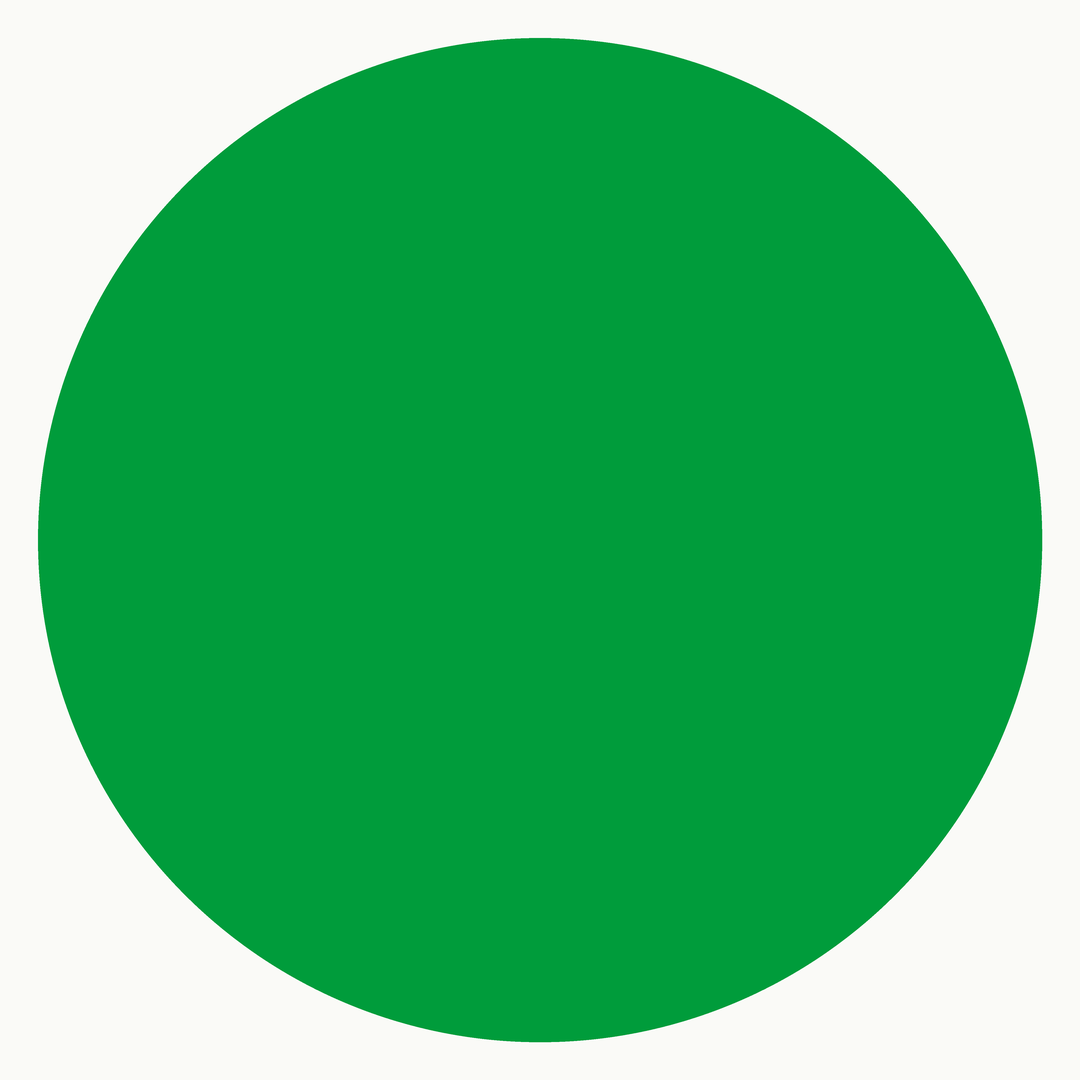
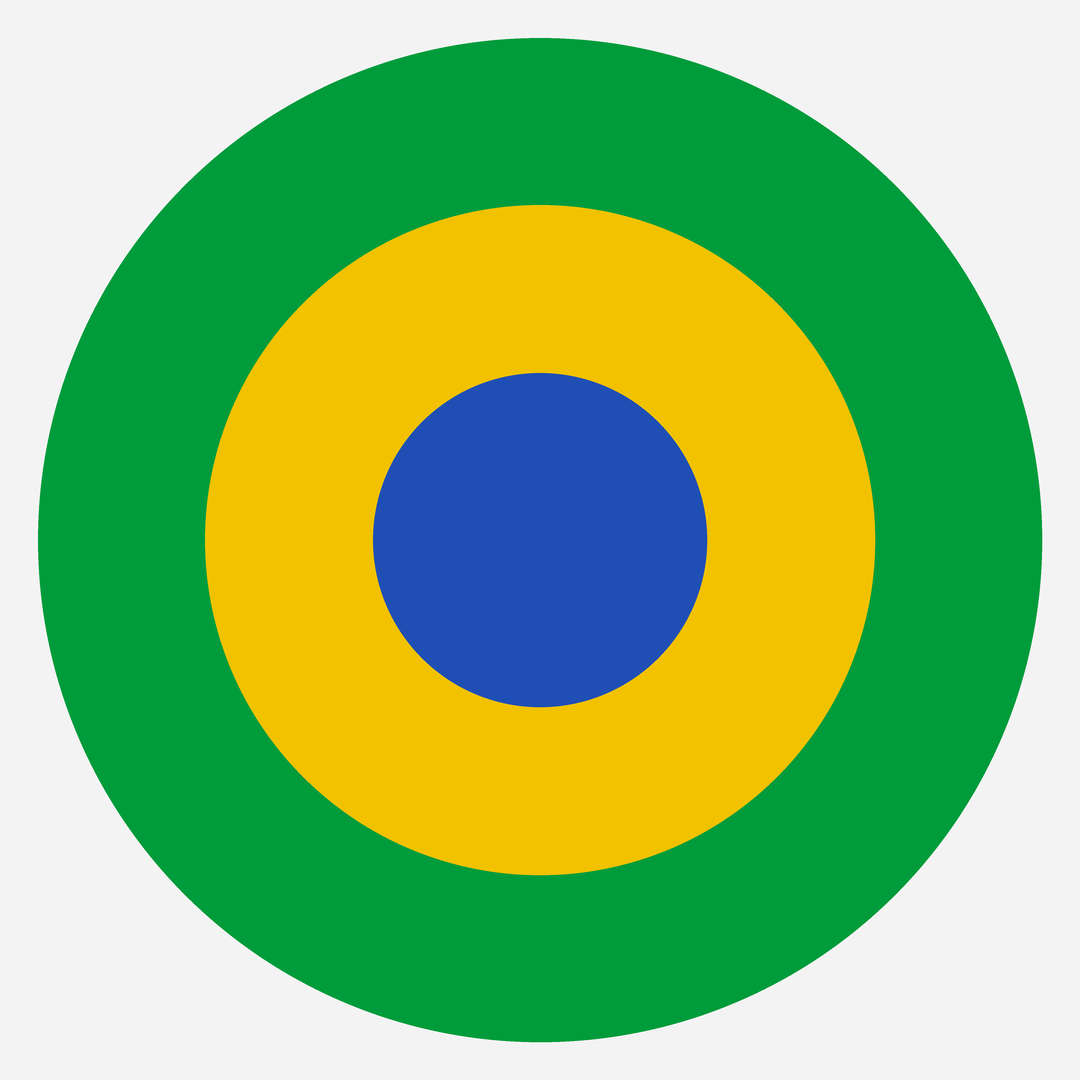
Prévia: stories automáticos quando há transmissão ao vivo; foto de perfil com três círculos
Claude-Session: https://claude.ai/code/session_01LhzKyHvExJb3TPhqkvRYrY

diff --git a/scripts/posts/stories.js b/scripts/posts/stories.js
@@ -1,0 +1,142 @@
+/* Stories "ao vivo": quando a Câmara, o Senado, o STF ou a Presidência começa uma transmissão oficial, publica um story
+   no Instagram com a arte de story-live.js. Roda em .github/workflows/stories.yml, a cada 10 minutos durante o dia.
+     node scripts/posts/stories.js preparar   -> acha o que está ao vivo agora e ainda não teve story e lista em
+                                                posts/stories/pendentes.json
+     node scripts/posts/stories.js arte       -> gera a arte de cada pendente em posts/stories/<chave>.jpg (Playwright)
+     node scripts/posts/stories.js publicar   -> (depois do commit, quando o site já serve a imagem) publica cada pendente
+                                                como story e anota em posts/stories/estado.json, para nunca repetir
+   Câmara e Senado: APIs de dados abertos (sessão do Plenário em andamento). STF e Presidência: a AGENDA do index.html,
+   com a mesma regra da seção "Ao vivo agora" do site (dia de hoje, sessão com horário, dentro da janela da transmissão).
+   O Instagram não aceita link clicável (figurinha de link) em story publicado pela API: a arte manda para o site.
+   Chaves só nos segredos do GitHub (IG_USER_ID, IG_TOKEN). */
+const fs = require('fs'), path = require('path'), crypto = require('crypto');
+const ROOT = path.resolve(__dirname, '..', '..');
+const DIR = path.join(ROOT, 'posts', 'stories');
+const EST = path.join(DIR, 'estado.json'), PEND = path.join(DIR, 'pendentes.json');
+const SITE = 'https://coisapublica.io/', GRAPH = 'https://graph.facebook.com/v21.0/';
+const UA = {'User-Agent': 'coisa-publica (coisapublica.io)', 'Accept': 'application/json'};
+const ler = (f, d) => { try { return JSON.parse(fs.readFileSync(f, 'utf8')); } catch (e) { return d; } };
+const sleep = ms => new Promise(r => setTimeout(r, ms));
+
+// hora de Brasília
+const agoraBR = () => { const p = Object.fromEntries(new Intl.DateTimeFormat('en-CA', {timeZone:'America/Sao_Paulo', year:'numeric', month:'2-digit', day:'2-digit', hour:'2-digit', minute:'2-digit', hourCycle:'h23'}).formatToParts(new Date()).map(x=> [x.type, x.value]));
+  return {data:`${p.year}-${p.month}-${p.day}`, min:(+p.hour)*60 + (+p.minute)}; };
+const hm = t => { const m = /(\d{1,2})h(\d{2})?/.exec(t||''); return m ? (+m[1])*60 + (+(m[2]||0)) : null; };
+const hTxt = m => `${Math.floor(m/60)}h${m%60 ? String(m%60).padStart(2,'0') : ''}`;
+const minIso = s => { const m = /T(\d{2}):(\d{2})/.exec(s||''); return m ? (+m[1])*60 + (+m[2]) : null; };
+const limpa = s => String(s||'').replace(/\s+/g, ' ').trim();
+const tipoBonito = s => limpa(s).toLowerCase().replace(/^./, c=> c.toUpperCase()) || 'Sessão';
+
+async function get(url){ const r = await fetch(url, {headers: UA}); if (!r.ok) throw new Error(`${url}: HTTP ${r.status}`); return r.json(); }
+
+// ---------- Câmara: evento do Plenário (órgão 180) em andamento ----------
+async function camara(hoje){
+  const js = await get(`https://dadosabertos.camara.leg.br/api/v2/eventos?idOrgao=180&dataInicio=${hoje}&dataFim=${hoje}&ordem=ASC&ordenarPor=dataHoraInicio&itens=50`);
+  return (js.dados||[]).filter(e=> /andamento/i.test(e.situacao||'')).map(e=> ({
+    chave:`camara-${e.id}`, casa:'camara', desde: minIso(e.dataHoraInicio)!=null ? hTxt(minIso(e.dataHoraInicio)) : '',
+    tipo: tipoBonito(e.descricaoTipo), descricao: limpa((e.descricao||'').split(/\r?\n/)[0]).slice(0, 180)}));
+}
+// ---------- Senado: sessão do Plenário de hoje aberta ou em andamento ----------
+function achar(o, k){ if (Array.isArray(o)) { for (const v of o){ const r = achar(v, k); if (r.length) return r; } return []; }
+  if (o && typeof o === 'object'){ for (const [kk, v] of Object.entries(o)){ if (kk.toLowerCase()===k.toLowerCase()) return Array.isArray(v) ? v : [v]; const r = achar(v, k); if (r.length) return r; } } return []; }
+async function senado(hoje){
+  const js = await get(`https://legis.senado.leg.br/dadosabertos/plenario/agenda/dia/${hoje.replace(/-/g,'')}.json`);
+  return achar(js, 'Sessao').filter(s=> s && typeof s === 'object').map(s=>{
+    let sit = s.SituacaoSessao || s.Situacao || ''; if (typeof sit === 'object') sit = sit.Descricao || sit.DescricaoSituacao || '';
+    let tipo = s.TipoSessao || s.DescricaoTipoSessao || ''; if (typeof tipo === 'object') tipo = tipo.Descricao || '';
+    const hora = s.HoraInicioSessao || s.HoraInicio || s.Hora || '';
+    return {sit: String(sit), x: {chave:`senado-${s.CodigoSessao || hoje}`, casa:'senado', desde: hora ? hTxt(hm(hora.slice(0,5).replace(':','h'))) : '',
+      tipo: tipoBonito(tipo), descricao: limpa(s.NomeSessao || s.DescricaoSessao || '').slice(0, 180)}};
+  }).filter(o=> /andamento|aberta|iniciada/i.test(o.sit)).map(o=> o.x);
+}
+// ---------- STF e Presidência: AGENDA escrita à mão no index.html ----------
+const VAZIO = Object.assign(()=> '', {toString:()=> '', valueOf:()=> ''});
+function objeto(src, nome){                       // lê `const NOME = {...}` do index.html, respeitando textos e comentários
+  const i = src.indexOf(`const ${nome} = {`); if (i < 0) return null;
+  let j = src.indexOf('{', i), d = 0, q = null;
+  for (let k = j; k < src.length; k++){
+    const c = src[k];
+    if (q){ if (c === '\\') { k++; continue; } if (c === q) q = null; continue; }
+    if (c === "'" || c === '"' || c === '`'){ q = c; continue; }
+    if (c === '/' && src[k+1] === '/'){ k = src.indexOf('\n', k); continue; }
+    if (c === '/' && src[k+1] === '*'){ k = src.indexOf('*/', k) + 1; continue; }
+    if (c === '{') d++; else if (c === '}' && --d === 0){
+      // constantes do site citadas dentro do objeto (como CAM, o começo dos links da Câmara) viram texto vazio
+      const escopo = new Proxy({}, {has:()=> true, get:(t, n)=> n === Symbol.unscopables ? undefined : (n in globalThis ? globalThis[n] : VAZIO)});
+      return new Function('escopo', `with (escopo) { return (${src.slice(j, k+1)}); }`)(escopo);
+    }
+  }
+  return null;
+}
+const JANELA = {stf:{start:'14h', hours:5}, exec:{start:'', hours:3}};   // as mesmas do LIVE do site
+function agenda(hoje, agora){
+  const src = fs.readFileSync(path.join(ROOT, 'index.html'), 'utf8');
+  const A = objeto(src, 'AGENDA') || {};
+  let P = {}; try { P = objeto(src, 'PROJECTS') || {}; } catch (e) { console.error('PROJECTS:', e.message); }
+  const out = [];
+  for (const k of ['stf', 'exec']){
+    const day = (A[k]?.days||[]).find(d=> d.date===hoje && !d.label && (d.live || (k!=='exec' && /sess|live/i.test(d.kind||''))));
+    if (!day) continue;
+    const st = hm(day.time || JANELA[k].start); if (st == null) continue;
+    const en = day.end ? hm(day.end) : st + JANELA[k].hours*60;
+    if (agora < st || agora >= en) continue;
+    const it = (day.items||[])[0] || {}, pr = it.ref && P[it.ref];
+    const desc = pr ? `${pr.title}${pr.code ? ` (${pr.code})` : ''}` : (it.id || '');
+    out.push({chave:`${k}-${hoje}-${st}`, casa:k, desde:hTxt(st), tipo:tipoBonito(day.kind), descricao: limpa(desc).slice(0, 180)});
+  }
+  return out;
+}
+
+async function preparar(){
+  const {data:hoje, min:agora} = agoraBR();
+  const est = ler(EST, {}), achados = [];
+  for (const [nome, fn] of [['camara', ()=> camara(hoje)], ['senado', ()=> senado(hoje)], ['agenda', async ()=> agenda(hoje, agora)]]){
+    try { achados.push(...await fn()); } catch (e) { console.error(`${nome}: ${e.message}`); }
+  }
+  const novos = achados.filter(x=> !est[x.chave]);
+  console.log('ao vivo agora:', achados.map(x=> x.chave).join(', ') || 'nada', '| novos:', novos.length);
+  if (novos.length){ fs.mkdirSync(DIR, {recursive:true}); fs.writeFileSync(PEND, JSON.stringify(novos, null, 1)); }
+  else fs.rmSync(PEND, {force:true});              // o que ficou pendente e já saiu do ar não vira story
+}
+
+async function arte(){
+  const pend = ler(PEND, []); if (!pend.length) return;
+  const {chromium} = require('playwright'), {html} = require('./story-live.js');
+  const b = await chromium.launch(), p = await b.newPage({viewport:{width:1080, height:1920}});
+  for (const x of pend){ await p.setContent(html(x)); await p.screenshot({path: path.join(DIR, `${x.chave}.jpg`), type:'jpeg', quality:90}); }
+  await b.close();
+}
+
+async function publicar(){
+  const pend = ler(PEND, []); if (!pend.length) return;
+  const ID = (process.env.IG_USER_ID||'').trim(), TOKEN = (process.env.IG_TOKEN||'').trim();
+  if (!ID || !TOKEN){ console.log('Instagram sem chave: nada publicado'); return; }
+  const est = ler(EST, {}), resta = [];
+  for (const x of pend){
+    try {
+      const f = path.join(DIR, `${x.chave}.jpg`), h = crypto.createHash('sha1').update(fs.readFileSync(f)).digest('hex');
+      const url = `${SITE}posts/stories/${x.chave}.jpg?v=${h.slice(0,10)}`;
+      let ok = false;                                  // espera o site servir esta imagem (até ~10 min)
+      for (let i = 0; i < 40 && !ok; i++){
+        try { const r = await fetch(url, {headers: UA}); ok = r.ok && crypto.createHash('sha1').update(Buffer.from(await r.arrayBuffer())).digest('hex') === h; } catch (e) {}
+        if (!ok) await sleep(15000);
+      }
+      if (!ok) throw new Error('o site ainda não serve a imagem');
+      const post = async (u, q) => { const r = await fetch(GRAPH + u, {method:'POST', body:new URLSearchParams({...q, access_token:TOKEN})}); const j = await r.json(); if (!r.ok || j.error) throw new Error(JSON.stringify(j.error||j).slice(0, 300)); return j; };
+      const c = (await post(`${ID}/media`, {image_url:url, media_type:'STORIES'})).id;
+      for (let i = 0; i < 30; i++){
+        const r = await (await fetch(`${GRAPH}${c}?fields=status_code&access_token=${encodeURIComponent(TOKEN)}`)).json();
+        if (r.status_code === 'FINISHED') break; if (r.status_code === 'ERROR') throw new Error('Instagram recusou a imagem');
+        await sleep(5000);
+      }
+      const m = (await post(`${ID}/media_publish`, {creation_id:c})).id;
+      est[x.chave] = {ref:m, quando:new Date().toISOString().slice(0,16) + 'Z'};
+      console.log(`${x.chave}: story publicado (${m})`);
+    } catch (e) { console.error(`${x.chave}: erro: ${e.message}`); resta.push(x); }
+  }
+  fs.writeFileSync(EST, JSON.stringify(est, null, 1));
+  if (resta.length) fs.writeFileSync(PEND, JSON.stringify(resta, null, 1)); else fs.rmSync(PEND, {force:true});
+}
+
+const modo = process.argv[2];
+({publicar, arte, preparar}[modo] || preparar)().catch(e=> { console.error(e); process.exit(1); });

diff --git a/scripts/posts/story-live.js b/scripts/posts/story-live.js
@@ -1,0 +1,53 @@
+/* Arte do story "ao vivo" (1080x1920), no visual do cartão "Ao vivo agora" do site.
+   Uso: node scripts/posts/story-live.js <saida.jpg> '<json>'
+   json: {casa:'camara'|'senado'|'stf'|'exec', desde:'14h', tipo:'Sessão deliberativa', descricao:'...', canal:'TV Câmara'}
+   O Instagram não deixa pôr link clicável em story pela API, por isso a arte manda para o site, onde a transmissão toca. */
+const {chromium} = require('playwright');
+const esc = s => String(s||'').replace(/[&<>"]/g, c=> ({'&':'&amp;','<':'&lt;','>':'&gt;','"':'&quot;'}[c]));
+const CASA = {
+  camara:{n:'Câmara', p:'#F2C200', canal:'TV Câmara'},
+  senado:{n:'Senado', p:'#F2C200', canal:'TV Senado'},
+  stf:{n:'STF', p:'#1F4FB5', canal:'TV Justiça'},
+  exec:{n:'Presidência', p:'#009C3B', canal:'Canal Gov'}
+};
+function html(o){
+  const c = CASA[o.casa] || CASA.camara;
+  return `<!doctype html><html><head><meta charset="utf-8"><style>
+*{box-sizing:border-box}html,body{margin:0}
+body{width:1080px;height:1920px;background:#F3F3F3;color:#121417;font-family:"Helvetica Neue",Helvetica,Arial,sans-serif;overflow:hidden;display:flex;flex-direction:column;justify-content:center;gap:56px;padding:260px 64px 300px}
+.logo{font-size:44px;letter-spacing:-.015em;padding-left:20px}
+.h{display:flex;align-items:center;gap:18px;margin:-20px 0 -24px 20px;font-size:34px;font-weight:600;letter-spacing:.07em;text-transform:uppercase;color:#E0242B}
+.logo i{display:inline-block;width:.54em;height:.54em;border-radius:50%;background:${c.p};margin:0 .045em}
+.card{border-radius:56px;background:color-mix(in srgb,#E0242B 7%,#F3F3F3);padding:56px 56px 60px;display:flex;flex-direction:column;gap:36px}
+.top{display:flex;align-items:center;justify-content:space-between;gap:20px}
+.pill{display:inline-flex;align-items:center;gap:18px;padding:16px 32px 16px 26px;border-radius:999px;background:#F3F3F3;font-size:38px;line-height:1;color:#E0242B;white-space:nowrap}
+.dot{width:22px;height:22px;border-radius:50%;background:#E0242B;flex:none}
+.since{font-size:36px;color:#6E6F73;white-space:nowrap}
+.t{margin:0;font-size:64px;line-height:1.1;letter-spacing:-.025em;font-weight:600}
+.d{margin:-14px 0 0;font-size:36px;line-height:1.35;color:#55585D;display:-webkit-box;-webkit-line-clamp:3;-webkit-box-orient:vertical;overflow:hidden}
+.video{position:relative;aspect-ratio:16/9;border-radius:34px;background:#121417;display:grid;place-items:center}
+.video span{display:inline-flex;align-items:center;gap:24px;font-size:38px;padding:24px 40px;border-radius:999px;background:rgba(243,243,243,.12);color:#F3F3F3}
+.video span::before{content:"";border-left:28px solid currentColor;border-top:17px solid transparent;border-bottom:17px solid transparent}
+.go{text-align:center;margin-top:8px}
+.go b{display:block;font-size:52px;letter-spacing:-.02em;font-weight:600}
+.go span{display:block;margin-top:18px;font-size:36px;color:#6E6F73;line-height:1.4}
+</style></head><body>
+<div class="logo">C<i></i>isa Pública</div>
+<p class="h"><span class="dot"></span>Ao vivo agora</p>
+<div class="card">
+  <div class="top"><span class="pill"><span class="dot"></span>${esc(c.n)} · ao vivo</span>${o.desde ? `<span class="since">desde as ${esc(o.desde)}</span>` : ''}</div>
+  <p class="t">${esc(o.tipo || 'Sessão')}</p>
+  ${o.descricao ? `<p class="d">${esc(o.descricao)}</p>` : ''}
+  <div class="video"><span>${esc(o.canal || c.canal)}</span></div>
+</div>
+<div class="go"><b>Assista em coisapublica.io</b><span>a transmissão oficial toca no site,<br>com a pauta do dia · link na bio</span></div>
+</body></html>`;
+}
+module.exports = {html, CASA};
+if (require.main === module) (async ()=>{
+  const [out, js] = process.argv.slice(2);
+  const b = await chromium.launch(), p = await b.newPage({viewport:{width:1080, height:1920}});
+  await p.setContent(html(JSON.parse(js || '{}')));
+  await p.screenshot({path: out, type:'jpeg', quality:92});
+  await b.close(); console.log('ok', out);
+})();

diff --git a/CLAUDE.md b/CLAUDE.md
@@ -55,4 +55,4 @@ Endereço: https://coisapublica.io/ (domínio próprio no GitHub Pages; o endere
 - Depois de editar, abrir o `index.html` no Playwright (Chromium já instalado) e conferir que não há erro de JavaScript no console.
 - Mensagem de commit em português, curta, dizendo o que mudou.
 - `data/transparencia/orcamento.json` e `rgf.json`: gerados toda terça por `.github/workflows/orcamento.yml`. `scripts/orcamento.py` lê os arquivos do Portal da Transparência ("Orçamento da despesa" anual e "Despesas - Execução" mensal); na prática só trazem o Executivo, por isso o site usa só `poderes.exec`. `scripts/rgf.py` lê a API do SICONFI (Tesouro Nacional, `apidatalake.tesouro.gov.br`, sem chave): Relatório de Gestão Fiscal, Anexo 1, último quadrimestre de cada órgão federal (tribunais, Câmara, Senado, TCU, MPU, MPDFT, DPU e União), separados pelo campo `rotulo`. Não editar à mão.
-- Posts nas redes (`posts/`, regras e formato em `posts/LEIA.md`): de segunda a sexta três por dia (manhã: ordem do dia; tarde: "Você sabia?"; noite: um projeto em tramitação, e na sexta o resumo da semana), domingo só à tarde (planos da semana), nada no sábado, e no último dia útil do mês mais dois (planos do mês seguinte e resumo do mês); calendário completo em `posts/LEIA.md`. No Instagram e no Bluesky, sempre aprovados pelo Lucca. Cada rascunho é `posts/AAAA-MM-DD-periodo/post.json` mais `imagem.jpg` (1080x1350, gerada por `scripts/posts/render.js` com `scripts/posts/modelo.html`, no visual do site; o texto encolhe até caber) numa branch `post/AAAA-MM-DD-periodo`. `.github/workflows/post-aprovacao.yml` abre o pedido de aprovação com a imagem e os textos; Merge publica (`.github/workflows/publicar.yml`, `scripts/posts/publicar.py`, segredos `BLUESKY_HANDLE`, `BLUESKY_APP_PASSWORD`, `IG_USER_ID`, `IG_TOKEN`) e grava `publicado.json`; post com mais de 2 dias não sai. Exemplos em `posts/exemplos/`. Os três posts de apresentação (`posts/AAAA-MM-DD-apresentacao-1..3`, imagens de `scripts/posts/apresentacao.js`) formam uma peça só na grade do perfil; detalhes em `posts/LEIA.md`. O X ficou de fora por enquanto.
+- Posts nas redes (`posts/`, regras e formato em `posts/LEIA.md`): de segunda a sexta três por dia (manhã: ordem do dia; tarde: "Você sabia?"; noite: um projeto em tramitação, e na sexta o resumo da semana), domingo só à tarde (planos da semana), nada no sábado, e no último dia útil do mês mais dois (planos do mês seguinte e resumo do mês); calendário completo em `posts/LEIA.md`. No Instagram e no Bluesky, sempre aprovados pelo Lucca. Cada rascunho é `posts/AAAA-MM-DD-periodo/post.json` mais `imagem.jpg` (1080x1350, gerada por `scripts/posts/render.js` com `scripts/posts/modelo.html`, no visual do site; o texto encolhe até caber) numa branch `post/AAAA-MM-DD-periodo`. `.github/workflows/post-aprovacao.yml` abre o pedido de aprovação com a imagem e os textos; Merge publica (`.github/workflows/publicar.yml`, `scripts/posts/publicar.py`, segredos `BLUESKY_HANDLE`, `BLUESKY_APP_PASSWORD`, `IG_USER_ID`, `IG_TOKEN`) e grava `publicado.json`; post com mais de 2 dias não sai. Exemplos em `posts/exemplos/`. Os três posts de apresentação (`posts/AAAA-MM-DD-apresentacao-1..3`, imagens de `scripts/posts/apresentacao.js`) formam uma peça só na grade do perfil; detalhes em `posts/LEIA.md`. O X ficou de fora por enquanto. Exceção: stories ao vivo saem sozinhos, sem aprovação, a pedido do Lucca: `.github/workflows/stories.yml` roda a cada 10 minutos (9h às 23h) `scripts/posts/stories.js`, que vê se a Câmara ou o Senado está com sessão do Plenário em andamento (dados abertos) ou se o STF ou a Presidência está na janela de transmissão da `AGENDA` (mesma regra de `liveState`), gera a arte (`scripts/posts/story-live.js`, 1080x1920, no visual do cartão "Ao vivo agora"), envia para `posts/stories/` e publica um story por sessão (`posts/stories/estado.json`). A API do Instagram não aceita figurinha de link em story, por isso a arte manda para coisapublica.io (link na bio).

diff --git a/posts/LEIA.md b/posts/LEIA.md
@@ -66,3 +66,7 @@ Horário de Brasília. A tarefa agendada roda todo dia às 6h37, 11h37 e 17h37 e
 ## Posts de apresentação
 
 `posts/AAAA-MM-DD-apresentacao-1`, `-2` e `-3`: três posts que, lado a lado na grade do perfil, formam uma peça só (Executivo verde à esquerda, Legislativo amarelo no meio, Judiciário azul à direita, com os círculos na mesma altura). As imagens saem de `node scripts/posts/apresentacao.js`. Como o post mais novo aparece à esquerda, o `-1` (Judiciário, direita) sai primeiro e o `-3` (Executivo, esquerda) por último; o robô publica as pastas em ordem alfabética. Para a grade continuar alinhada depois, os posts do dia devem sair sempre de três em três.
+
+## Stories ao vivo
+
+Saem sozinhos, sem pedido de aprovação: quando começa uma transmissão oficial da Câmara, do Senado, do STF ou da Presidência, `.github/workflows/stories.yml` (a cada 10 minutos, das 9h às 23h) gera a arte com `scripts/posts/story-live.js` e publica um story por sessão. O que já saiu fica em `posts/stories/estado.json`. A API do Instagram não permite figurinha de link em story; a arte manda para coisapublica.io, onde a transmissão toca na seção "Ao vivo agora".
